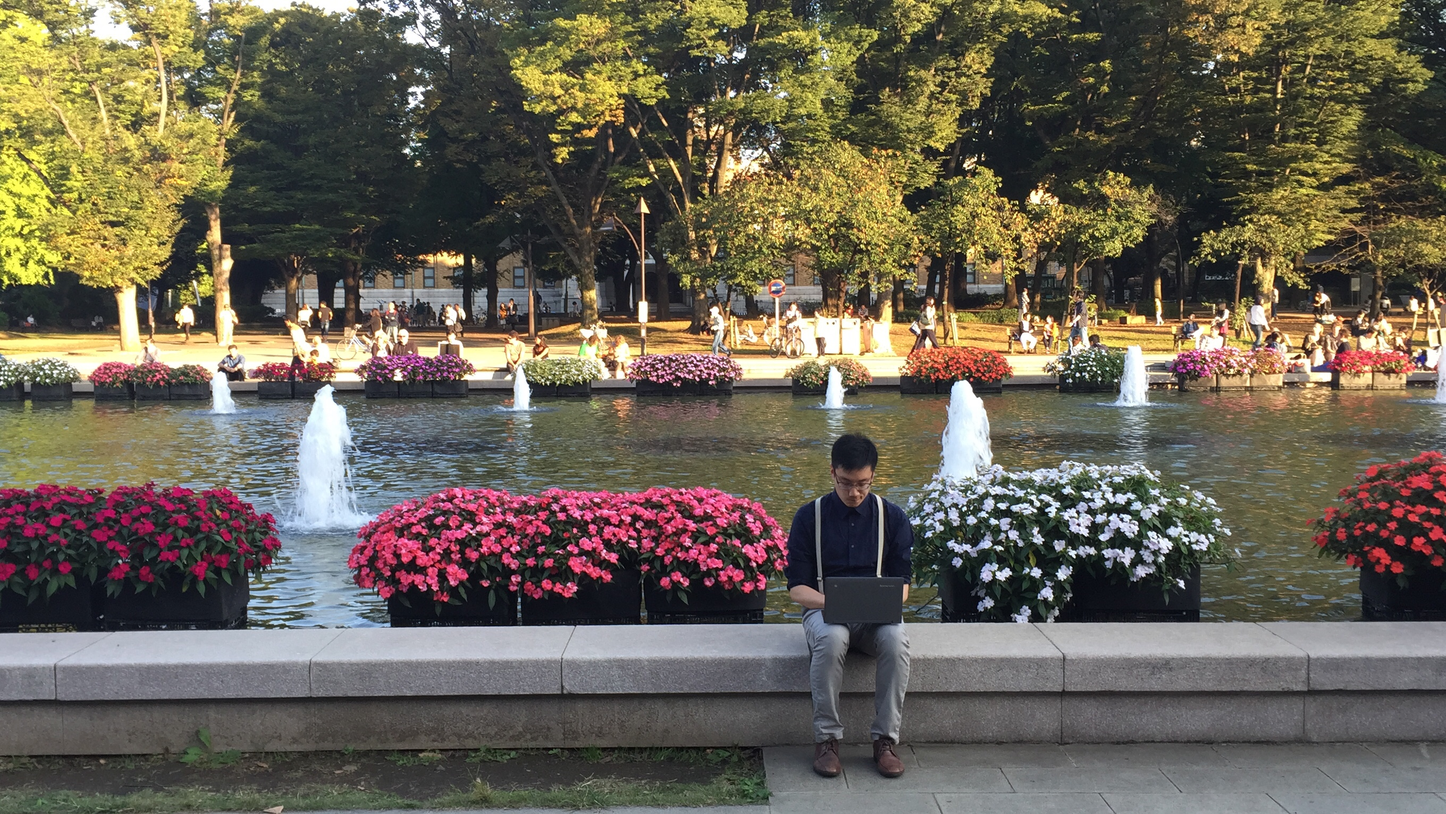
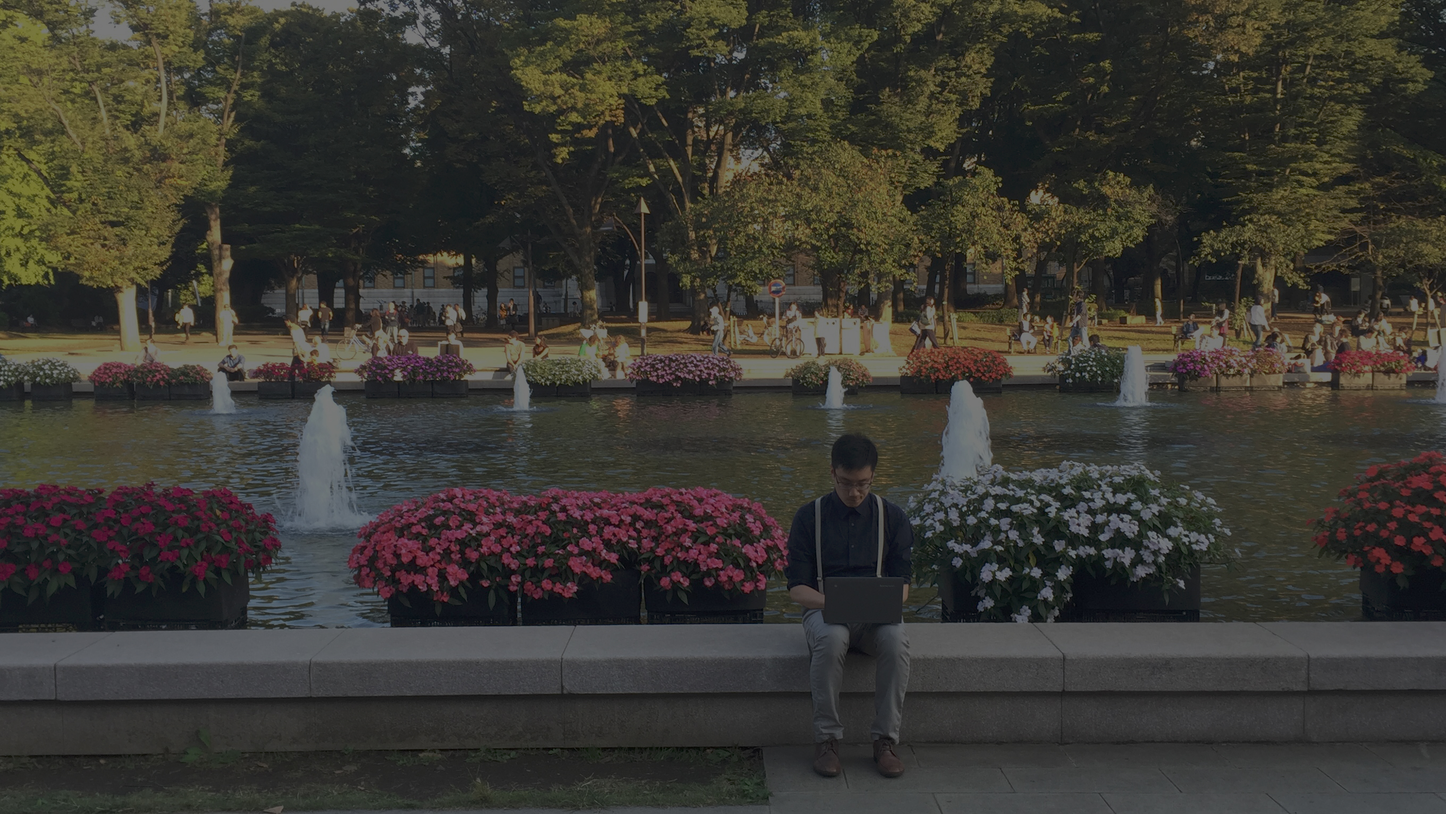
update image and css

diff --git a/index.html b/index.html
@@ -49,19 +49,22 @@
             <div class="collapse navbar-collapse" id="bs-example-navbar-collapse-1">
                 <ul class="nav navbar-nav navbar-right">
                     <li>
-                        <a href="https://medium.com/@whosbacon">Blog</a>
+                        <a href="https://medium.com/@whosbacon" target="_blank">Blog</a>
                     </li>
                     <li>
-                        <a href="https://gist.github.com/whosken/7651661">Resumé</a>
+                        <a href="https://gist.github.com/whosken/7651661" target="_blank">Resumé</a>
                     </li>
                     <li>
-                        <a href="http://nomadicdrawings.com/">Art</a>
+                        <a href="http://nomadicdrawings.com/" target="_blank">Art</a>
                     </li>
                     <li>
-                        <a href="http://vagabond.whosbacon.com/">Travel</a>
+                        <a href="http://vagabond.whosbacon.com/" target="_blank">Travel</a>
                     </li>
                     <li>
-                        <a href="mailto:whosbacon@gmail.com">Email</a>
+                        <a href="http://otherside.whosbacon.com/" target="_blank">Musing</a>
+                    </li>
+                    <li>
+                        <a href="mailto:whosbacon@gmail.com" target="_blank">Email</a>
                     </li>
                 </ul>
             </div>
@@ -84,13 +87,16 @@
                         <hr class="intro-divider">
                         <ul class="list-inline intro-social-buttons">
                             <li>
-                                <a href="https://twitter.com/whosbacon" class="btn btn-default btn-lg"><i class="fa fa-twitter fa-fw"></i> <span class="network-name">Twitter</span></a>
+                                <a href="https://twitter.com/whosbacon" target="_blank" class="btn btn-default btn-lg"><i class="fa fa-twitter fa-fw"></i> <span class="network-name">Twitter</span></a>
                             </li>
                             <li>
-                                <a href="https://github.com/whosken" class="btn btn-default btn-lg"><i class="fa fa-github fa-fw"></i> <span class="network-name">Github</span></a>
+                                <a href="https://github.com/whosken" target="_blank" class="btn btn-default btn-lg"><i class="fa fa-github fa-fw"></i> <span class="network-name">Github</span></a>
                             </li>
                             <li>
-                                <a href="https://www.instagram.com/nomadicdrawings/" class="btn btn-default btn-lg"><i class="fa fa-instagram fa-fw"></i> <span class="network-name">Instagram</span></a>
+                                <a href="https://www.instagram.com/nomadicdrawings/" target="_blank" class="btn btn-default btn-lg"><i class="fa fa-instagram fa-fw"></i> <span class="network-name">Instagram</span></a>
+                            </li>
+                            <li>
+                                <a href="https://angel.co/kenhu" target="_blank" class="btn btn-default btn-lg"><i class="fa fa-angellist fa-fw"></i> <span class="network-name">AngelList</span></a>
                             </li>
                         </ul>
                     </div>
@@ -111,13 +117,13 @@
         <div class="container">
             <div class="row">
                 <div class="col-lg-5 col-sm-6">
-                    <hr class="section-heading-spacer">
+                    <!-- <hr class="section-heading-spacer"> -->
                     <div class="clearfix"></div>
                     <h2 class="section-heading">Data Engineering + Sciencing</h2>
-                    <p class="lead">I have been working in the software industry since 2007, and used a range of languages from Java, C#, to Python, Javascript, and Prolog. I was also fortunate enough to attend one of the leading Artificial Intelligence and Computer Science universities, University of Edinburgh. <br>You can find my public work on <a href="https://github.com/whosken">Github</a>.</p>
+                    <p class="lead">I have been working in the software industry since 2007, and used a range of languages from C# to Python and Javascript. I was also fortunate enough to attend one of the leading Artificial Intelligence and Computer Science universities, University of Edinburgh. <br>You can find my <a href="https://github.com/whosken" target="_blank">code samples</a> and <a href="https://gist.github.com/whosken/7651661" target="_blank">resumé</a> on Github.</p>
                 </div>
                 <div class="col-lg-5 col-lg-offset-2 col-sm-6">
-                    <img class="img-responsive" src="img/ipad.png" alt="">
+                    <img class="img-responsive" src="img/tech.jpg" alt="">
                 </div>
             </div>
 
@@ -133,13 +139,13 @@
 
             <div class="row">
                 <div class="col-lg-5 col-lg-offset-1 col-sm-push-6  col-sm-6">
-                    <hr class="section-heading-spacer">
+                    <!-- <hr class="section-heading-spacer"> -->
                     <div class="clearfix"></div>
-                    <h2 class="section-heading">Startup Something</h2>
-                    <p class="lead">Previously as a solo founder, I was able to build a team around my startup and grow it into a revenue positive entity, without outside funding. This experience has taught me a great deal of business and marketing skills. <br>You can explore my entrepreneur journey on my <a href="https://angel.co/kenhu">AngelList</a> profile.</p>
+                    <h2 class="section-heading">Occasionally Drawing</h2>
+                    <p class="lead">I've had an interest in drawing for as long as I can remember. Having rekindled that passion in adulthood, I exercise it on my favorite subjects from fashion to superheroes. <br>You can browse my collection on <a href="http://nomadicdrawings.com/" target="_blank">Nomadic Drawings</a> and <a href="https://www.instagram.com/nomadicdrawings/" target="_blank">Instagram</a>.</p>
                 </div>
                 <div class="col-lg-5 col-sm-pull-6  col-sm-6">
-                    <img class="img-responsive" src="img/dog.png" alt="">
+                    <img class="img-responsive" src="img/art.jpg" alt="">
                 </div>
             </div>
 
@@ -155,13 +161,13 @@
 
             <div class="row">
                 <div class="col-lg-5 col-sm-6">
-                    <hr class="section-heading-spacer">
+                    <!-- <hr class="section-heading-spacer"> -->
                     <div class="clearfix"></div>
-                    <h2 class="section-heading">Occasionally Drawing</h2>
-                    <p class="lead">I've had an interest in drawing for as long as I can remember. Having rekindled that passion in adulthood, I exercise it on my favorite subjects from fashion to superheroes. <br>You can browse my collection on <a href="http://nomadicdrawings.com/">Nomadic Drawings</a> and <a href="https://www.instagram.com/nomadicdrawings/">Instagram</a>.</p>
+                    <h2 class="section-heading">Startup Something</h2>
+                    <p class="lead">Previously as a solo founder, I was able to build a team around my startup and grow it into a revenue positive entity, without outside funding. This experience has taught me a great deal of business and marketing skills. <br>You can explore my entrepreneural journey on <a href="https://angel.co/kenhu" target="_blank">AngelList</a>.</p>
                 </div>
                 <div class="col-lg-5 col-lg-offset-2 col-sm-6">
-                    <img class="img-responsive" src="img/phones.png" alt="">
+                    <img class="img-responsive" src="img/startup.jpg" alt="">
                 </div>
             </div>
 
@@ -183,22 +189,22 @@
                 <div class="col-lg-12">
                     <ul class="list-inline banner-social-buttons">
                         <li>
-                            <a href="https://twitter.com/whosbacon" class="btn btn-default btn-lg"><i class="fa fa-twitter fa-fw"></i> <span class="network-name">Twitter</span></a>
+                            <a href="https://twitter.com/whosbacon" target="_blank" class="btn btn-default btn-lg"><i class="fa fa-twitter fa-fw"></i> <span class="network-name">Twitter</span></a>
                         </li>
                         <li>
-                            <a href="https://github.com/whosken" class="btn btn-default btn-lg"><i class="fa fa-github fa-fw"></i> <span class="network-name">Github</span></a>
+                            <a href="https://github.com/whosken" target="_blank" class="btn btn-default btn-lg"><i class="fa fa-github fa-fw"></i> <span class="network-name">Github</span></a>
                         </li>
                         <li>
-                            <a href="https://www.instagram.com/nomadicdrawings/" class="btn btn-default btn-lg"><i class="fa fa-instagram fa-fw"></i> <span class="network-name">Instagram</span></a>
+                            <a href="https://www.instagram.com/nomadicdrawings/" target="_blank" class="btn btn-default btn-lg"><i class="fa fa-instagram fa-fw"></i> <span class="network-name">Instagram</span></a>
                         </li>
                         <li>
-                            <a href="https://angel.co/kenhu" class="btn btn-default btn-lg"><i class="fa fa-angellist fa-fw"></i> <span class="network-name">AngelList</span></a>
+                            <a href="https://angel.co/kenhu" target="_blank" class="btn btn-default btn-lg"><i class="fa fa-angellist fa-fw"></i> <span class="network-name">AngelList</span></a>
                         </li>
                         <li>
-                            <a href="https://linkedin.com/in/kenhu" class="btn btn-default btn-lg"><i class="fa fa-linkedin fa-fw"></i> <span class="network-name">Linkedin</span></a>
+                            <a href="https://linkedin.com/in/kenhu" target="_blank" class="btn btn-default btn-lg"><i class="fa fa-linkedin fa-fw"></i> <span class="network-name">Linkedin</span></a>
                         </li>
                         <li>
-                            <a href="mailto:whosbacon@gmail.com" class="btn btn-default btn-lg"><i class="fa fa-envelope fa-fw"></i> <span class="network-name">Email</span></a>
+                            <a href="mailto:whosbacon@gmail.com" target="_blank" class="btn btn-default btn-lg"><i class="fa fa-envelope fa-fw"></i> <span class="network-name">Email</span></a>
                         </li>
                     </ul>
                 </div>

diff --git a/css/landing-page.css b/css/landing-page.css
@@ -23,6 +23,8 @@ h6 {
 
 .topnav {
     font-size: 14px; 
+    background-color: #f8f8f8;
+    border-width: 0px;
 }
 
 .lead {
@@ -36,6 +38,7 @@ h6 {
     text-align: center;
     color: #f8f8f8;
     background: url(../img/intro-bg.jpg) no-repeat center center;
+    background-color: #1e1e1e;
     background-size: cover;
 }
 
@@ -47,18 +50,18 @@ h6 {
 
 .intro-message > h1 {
     margin: 0;
-    text-shadow: 2px 2px 3px rgba(0,0,0,0.6);
+    /* text-shadow: 2px 2px 3px rgba(0,0,0,0.6); */
     font-size: 5em;
 }
 
 .intro-divider {
     width: 400px;
-    border-top: 1px solid #f8f8f8;
-    border-bottom: 1px solid rgba(0,0,0,0.2);
+    /* border-top: 1px solid #f8f8f8; */
+    /* border-bottom: 1px solid rgba(0,0,0,0.2); */
 }
 
 .intro-message > h3 {
-    text-shadow: 2px 2px 3px rgba(0,0,0,0.6);
+    /* text-shadow: 2px 2px 3px rgba(0,0,0,0.6); */
 }
 
 @media(max-width:767px) {
@@ -94,13 +97,16 @@ h6 {
 
 .content-section-a {
     padding: 50px 0;
-    background-color: #f8f8f8;
+    background-color: #333333; /* #f8f8f8 */
+    color: #f8f8f8;
 }
 
 .content-section-b {
     padding: 50px 0;
-    border-top: 1px solid #e7e7e7;
-    border-bottom: 1px solid #e7e7e7;
+    /* border-top: 1px solid #e7e7e7; */
+    /* border-bottom: 1px solid #e7e7e7; */
+    background-color: #1e1e1e; /* #f8f8f8 */
+    color: #f8f8f8;
 }
 
 .section-heading {
@@ -131,7 +137,7 @@ h6 {
 }
 
 .banner-social-buttons {
-    text-align: center;
+    text-align: center; /* right */
     margin-top: 0;
 }
 
